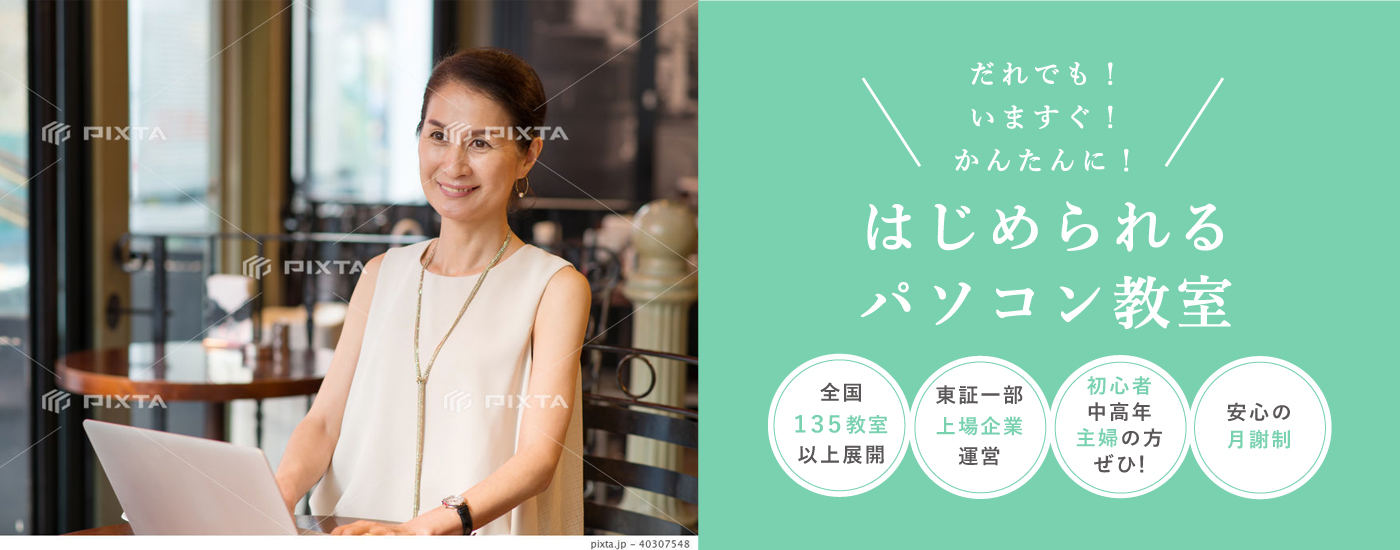
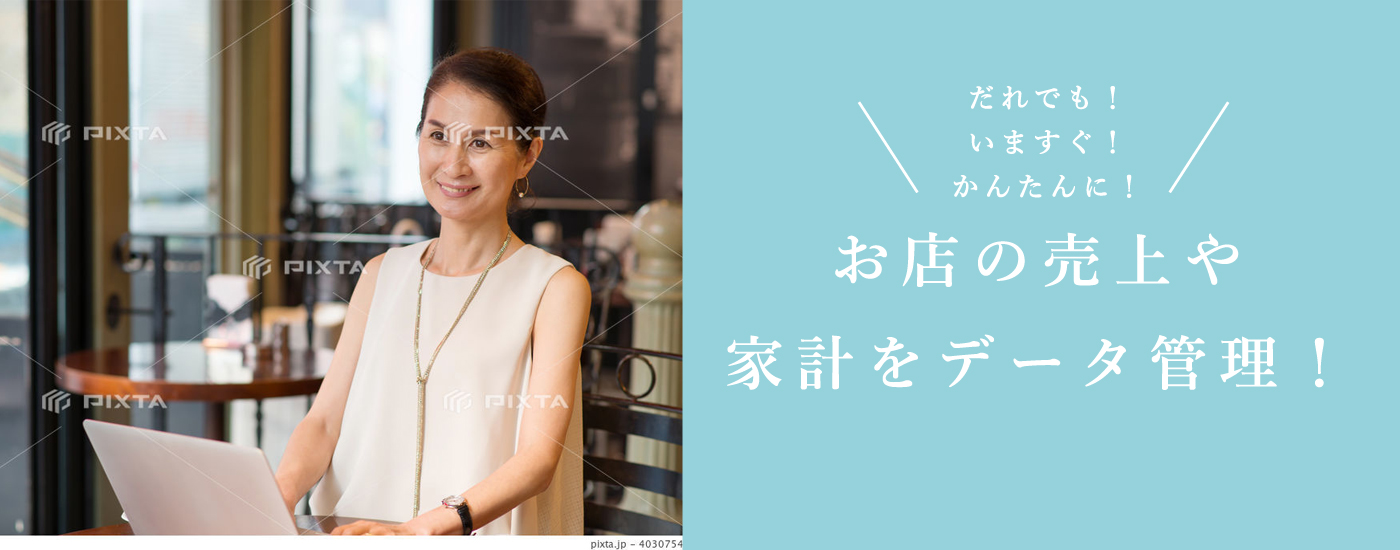
More visual tweaks

diff --git a/index.html b/index.html
@@ -37,29 +37,30 @@
 
   <div class="slider hero-banner">
     <div><img src="img/hero1.jpg" alt="だれでも！いますぐ！かんたんに！はじめられるパソコン教室。全国135教室以上展開・東証一部上場企業運営初心者中高年主婦の方ぜひ！安心の月謝制" width="" height="" /></div>
-    <div><img src="img/hero2.jpg" alt="だれでも！いますぐ！かんたんに！はじめられるパソコン教室。全国135教室以上展開・東証一部上場企業運営初心者中高年主婦の方ぜひ！安心の月謝制" width="" height="" /></div>
-    <div><img src="img/hero3.jpg" alt="だれでも！いますぐ！かんたんに！はじめられるパソコン教室。全国135教室以上展開・東証一部上場企業運営初心者中高年主婦の方ぜひ！安心の月謝制" width="" height="" /></div>
-    <div><img src="img/hero4.jpg" alt="だれでも！いますぐ！かんたんに！はじめられるパソコン教室。全国135教室以上展開・東証一部上場企業運営初心者中高年主婦の方ぜひ！安心の月謝制" width="" height="" /></div>
+    <div><img src="img/hero2.jpg" alt="お店の売上や家計をデータ管理！" width="" height="" /></div>
+    <div><img src="img/hero3.jpg" alt="スマホやタブレットでお孫さんと楽しく！" width="" height="" /></div>
+    <div><img src="img/hero4.jpg" alt="旅行の写真をアルバムに整理！" width="" height="" /></div>
+    <div><img src="img/hero5.jpg" alt="もらって嬉しいオリジナルハガキ作成講座!" width="" height="" /></div>
   </div>
 
   <section class="clearfix point">
-    <h2><img src="img/minpaso.png" height="48px" /><span>みんなのパソコン倶楽部</span>とは？</h2>
+    <h2><img src="img/minpaso.png" height="72px" /><span>みんなのパソコン倶楽部</span>とは？</h2>
     <section class="point01 inner-wrap">
-      <h3><span>だれでも</span>、<span>いますぐ</span>、<span>簡単</span>に始められます！<img src="img/point01.png" height="40px"/></h3>
+      <h3><span>だれでも</span>、<span>いますぐ</span>、<span>簡単</span>に始められます！<img src="img/point01.png" height="60px"/></h3>
       <p>無料説明会に参加してみる。お近くの教室で体験してみる。思い立ったらすぐ、簡単にスタートできます。初心者の方も多く、また中高年、主婦など様々な生徒さんが通っていますので、どなたでもお気軽にご参加いただけます。</p>
     </section>
     <section class="point02 inner-wrap">
-      <h3><span>自由</span>で<span>フレキシブル</span>な時間割りです！<img src="img/point02.png" height="40px"/></h3>
+      <h3><span>自由</span>で<span>フレキシブル</span>な時間割りです！<img src="img/point02.png" height="60px"/></h3>
       <p>やりたいことやお好きなプログラムをカリキュラムから選んで、自由に時間割りを設定！また、ご自身のペースに合わせて、プログラムの振り替え受講や追加受講もフレキシブルにできます。</p>
     </section>
     <section class="point03 inner-wrap">
-      <h3><span>スマートフォン</span>や<span>タブレット</span>を使いこなせます！<img src="img/point03.png" height="40px"/></h3>
+      <h3><span>スマートフォン</span>や<span>タブレット</span>を使いこなせます！<img src="img/point03.png" height="60px"/></h3>
       <p>お孫さんとLINEでやりとりしたり、写真を撮影して家族に送ったり、インターネットで調べ物をしたり・・・。生活がもっと楽しくなるスマホやタブレットの使い方も身につきます。</p>
     </section>
   </section>
 
   <section id="school-list">
-    <h2 id="anchor"><img src="img/setumei.png" height="48px" />まずは無料説明会へご参加ください！</h2>
+    <h2 id="anchor"><img src="img/setumei.png" height="72px" />各教室にて無料説明会実施中！</h2>
     <div class="inner-wrap">
     <p>お近くの会場でいずれかの日時にご参加下さい。<br>下記の日程でご都合が合わない方も日程調整いたしますので、各教室にお気軽にお電話下さい。※説明会の所要時間は50分程度です。</p>
     <ul>

diff --git a/css/main.css b/css/main.css
@@ -130,7 +130,7 @@ header h1 {
 }
 header h1 a { text-align: center; }
 header h1 a span {
-  font-size: 0.4em;
+  font-size: 0.5em;
   font-weight: 400;
   color: #595656;
   text-align: center;
@@ -239,6 +239,7 @@ section h2 {
 }
 .point h3 span {
   color: #79D1B0;
+  font-size: 1.2em;
 }
 .point h3 img { display: none; }
 
